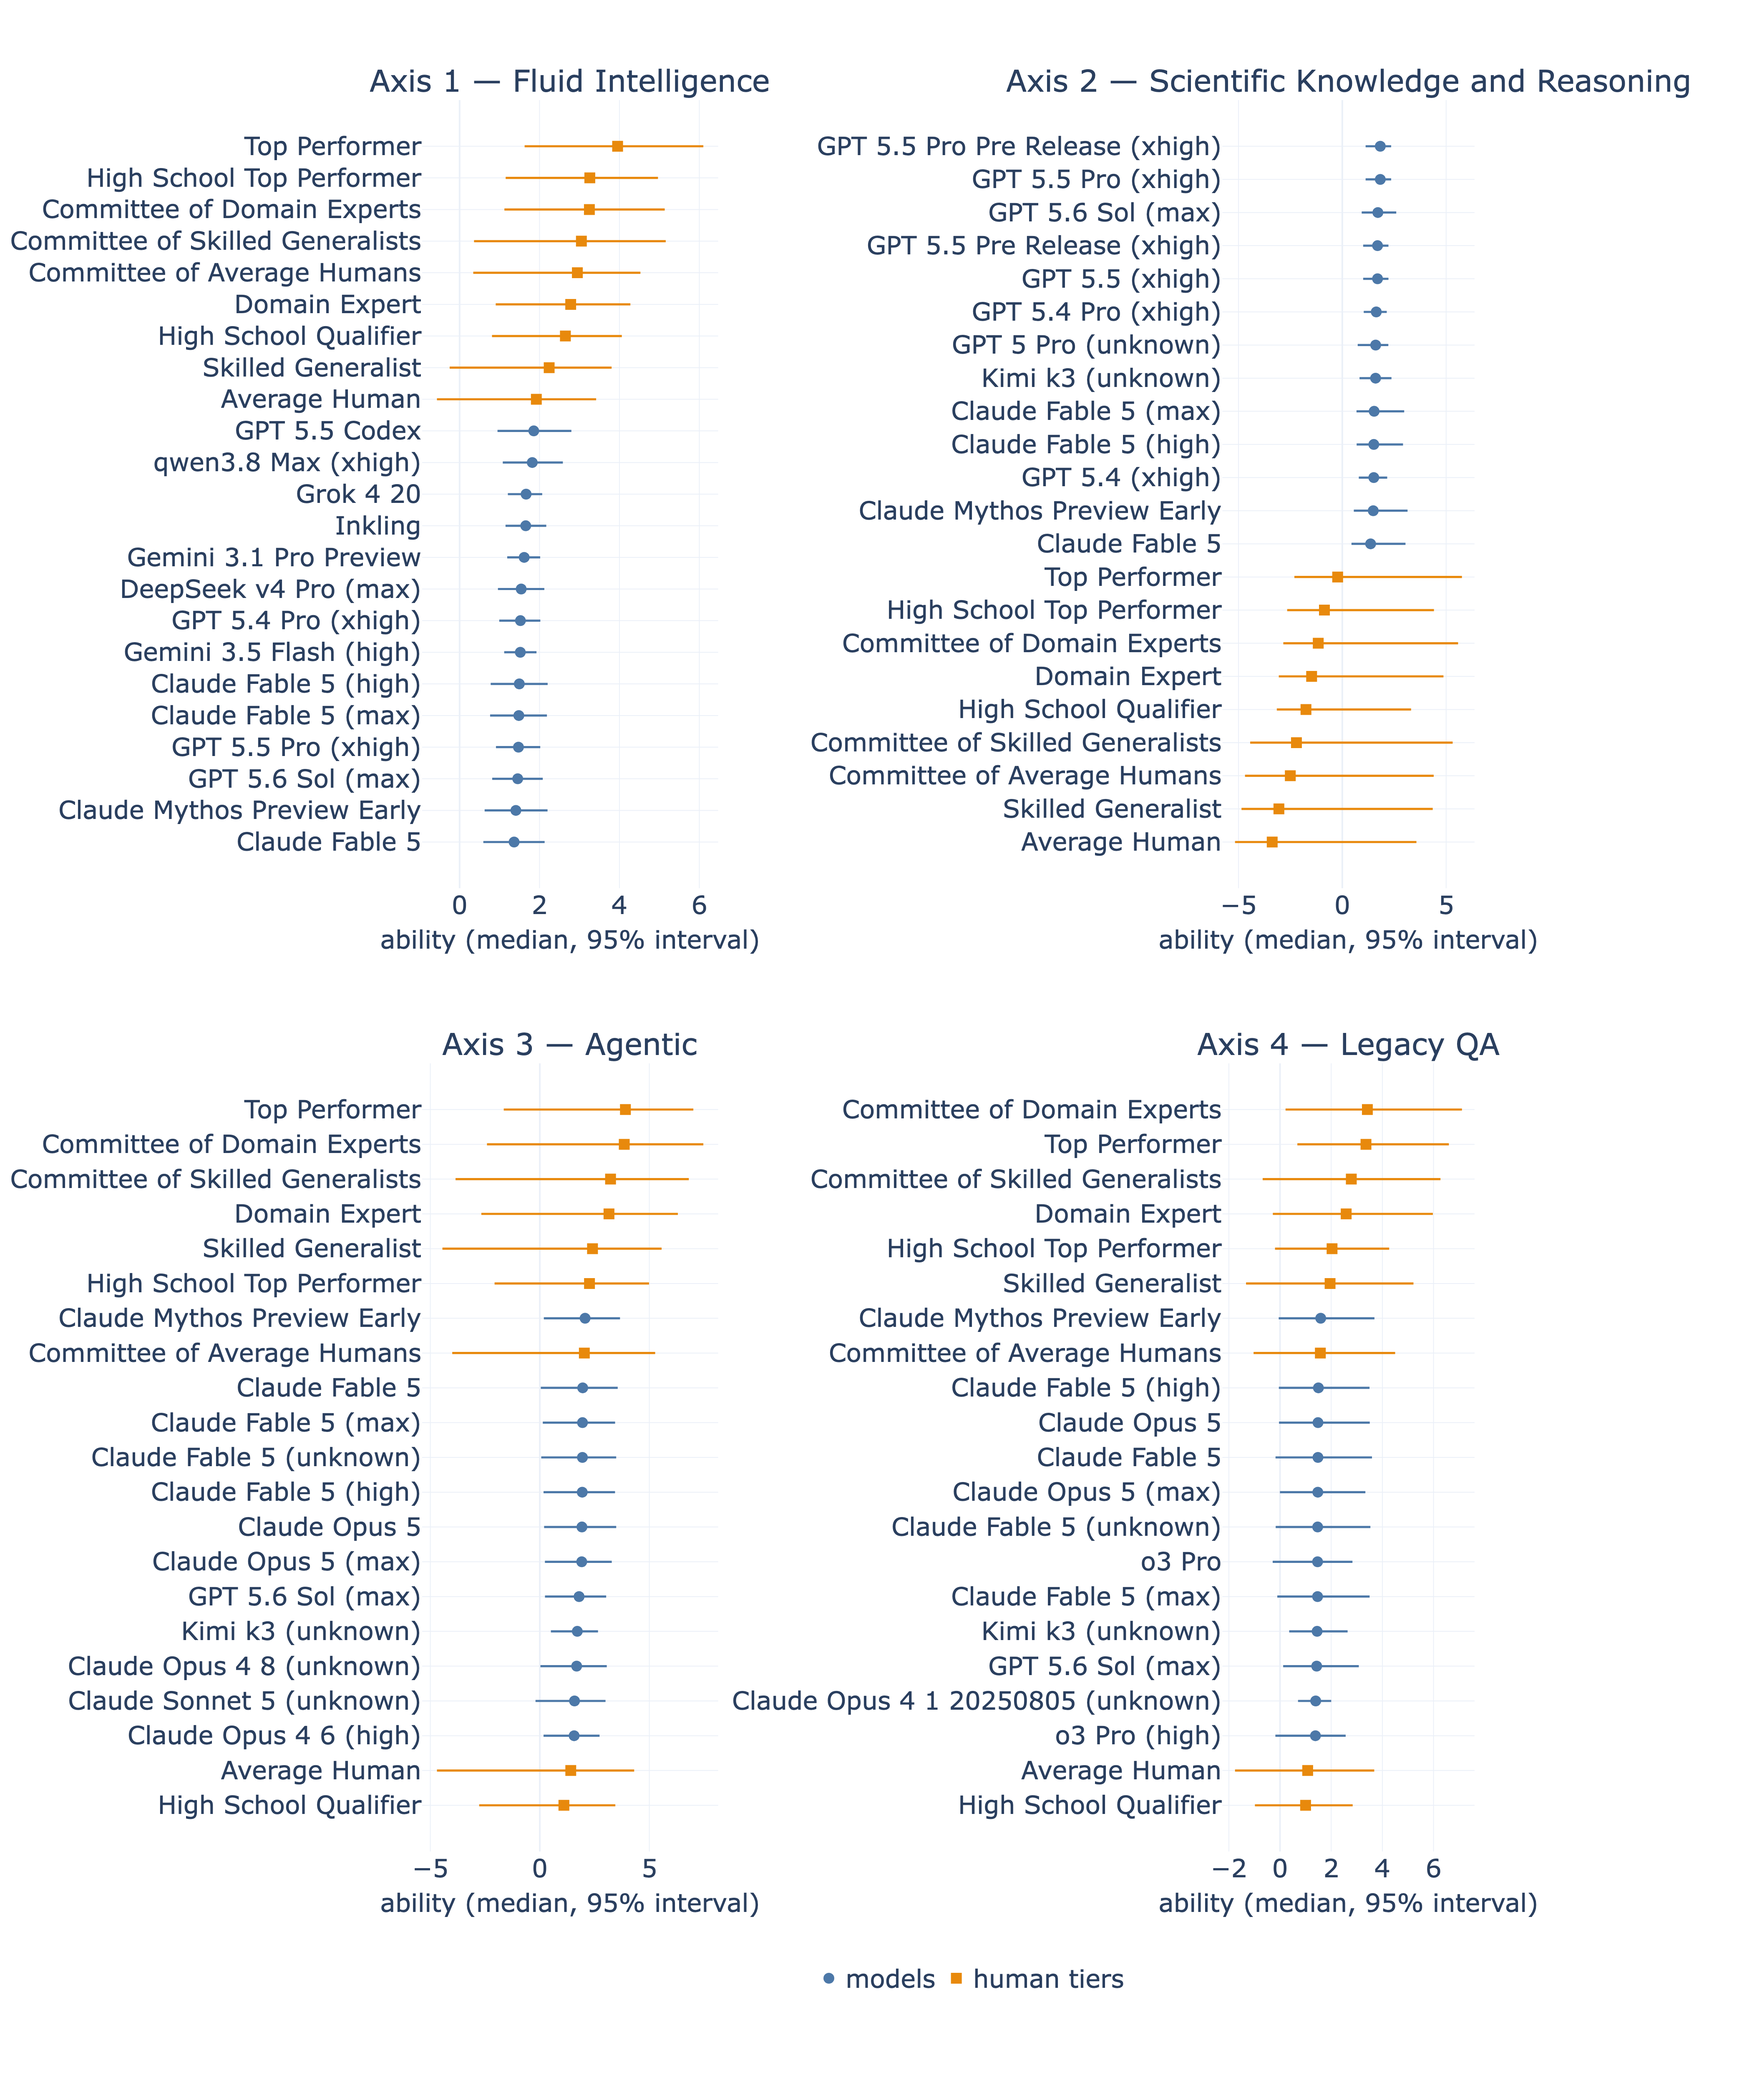
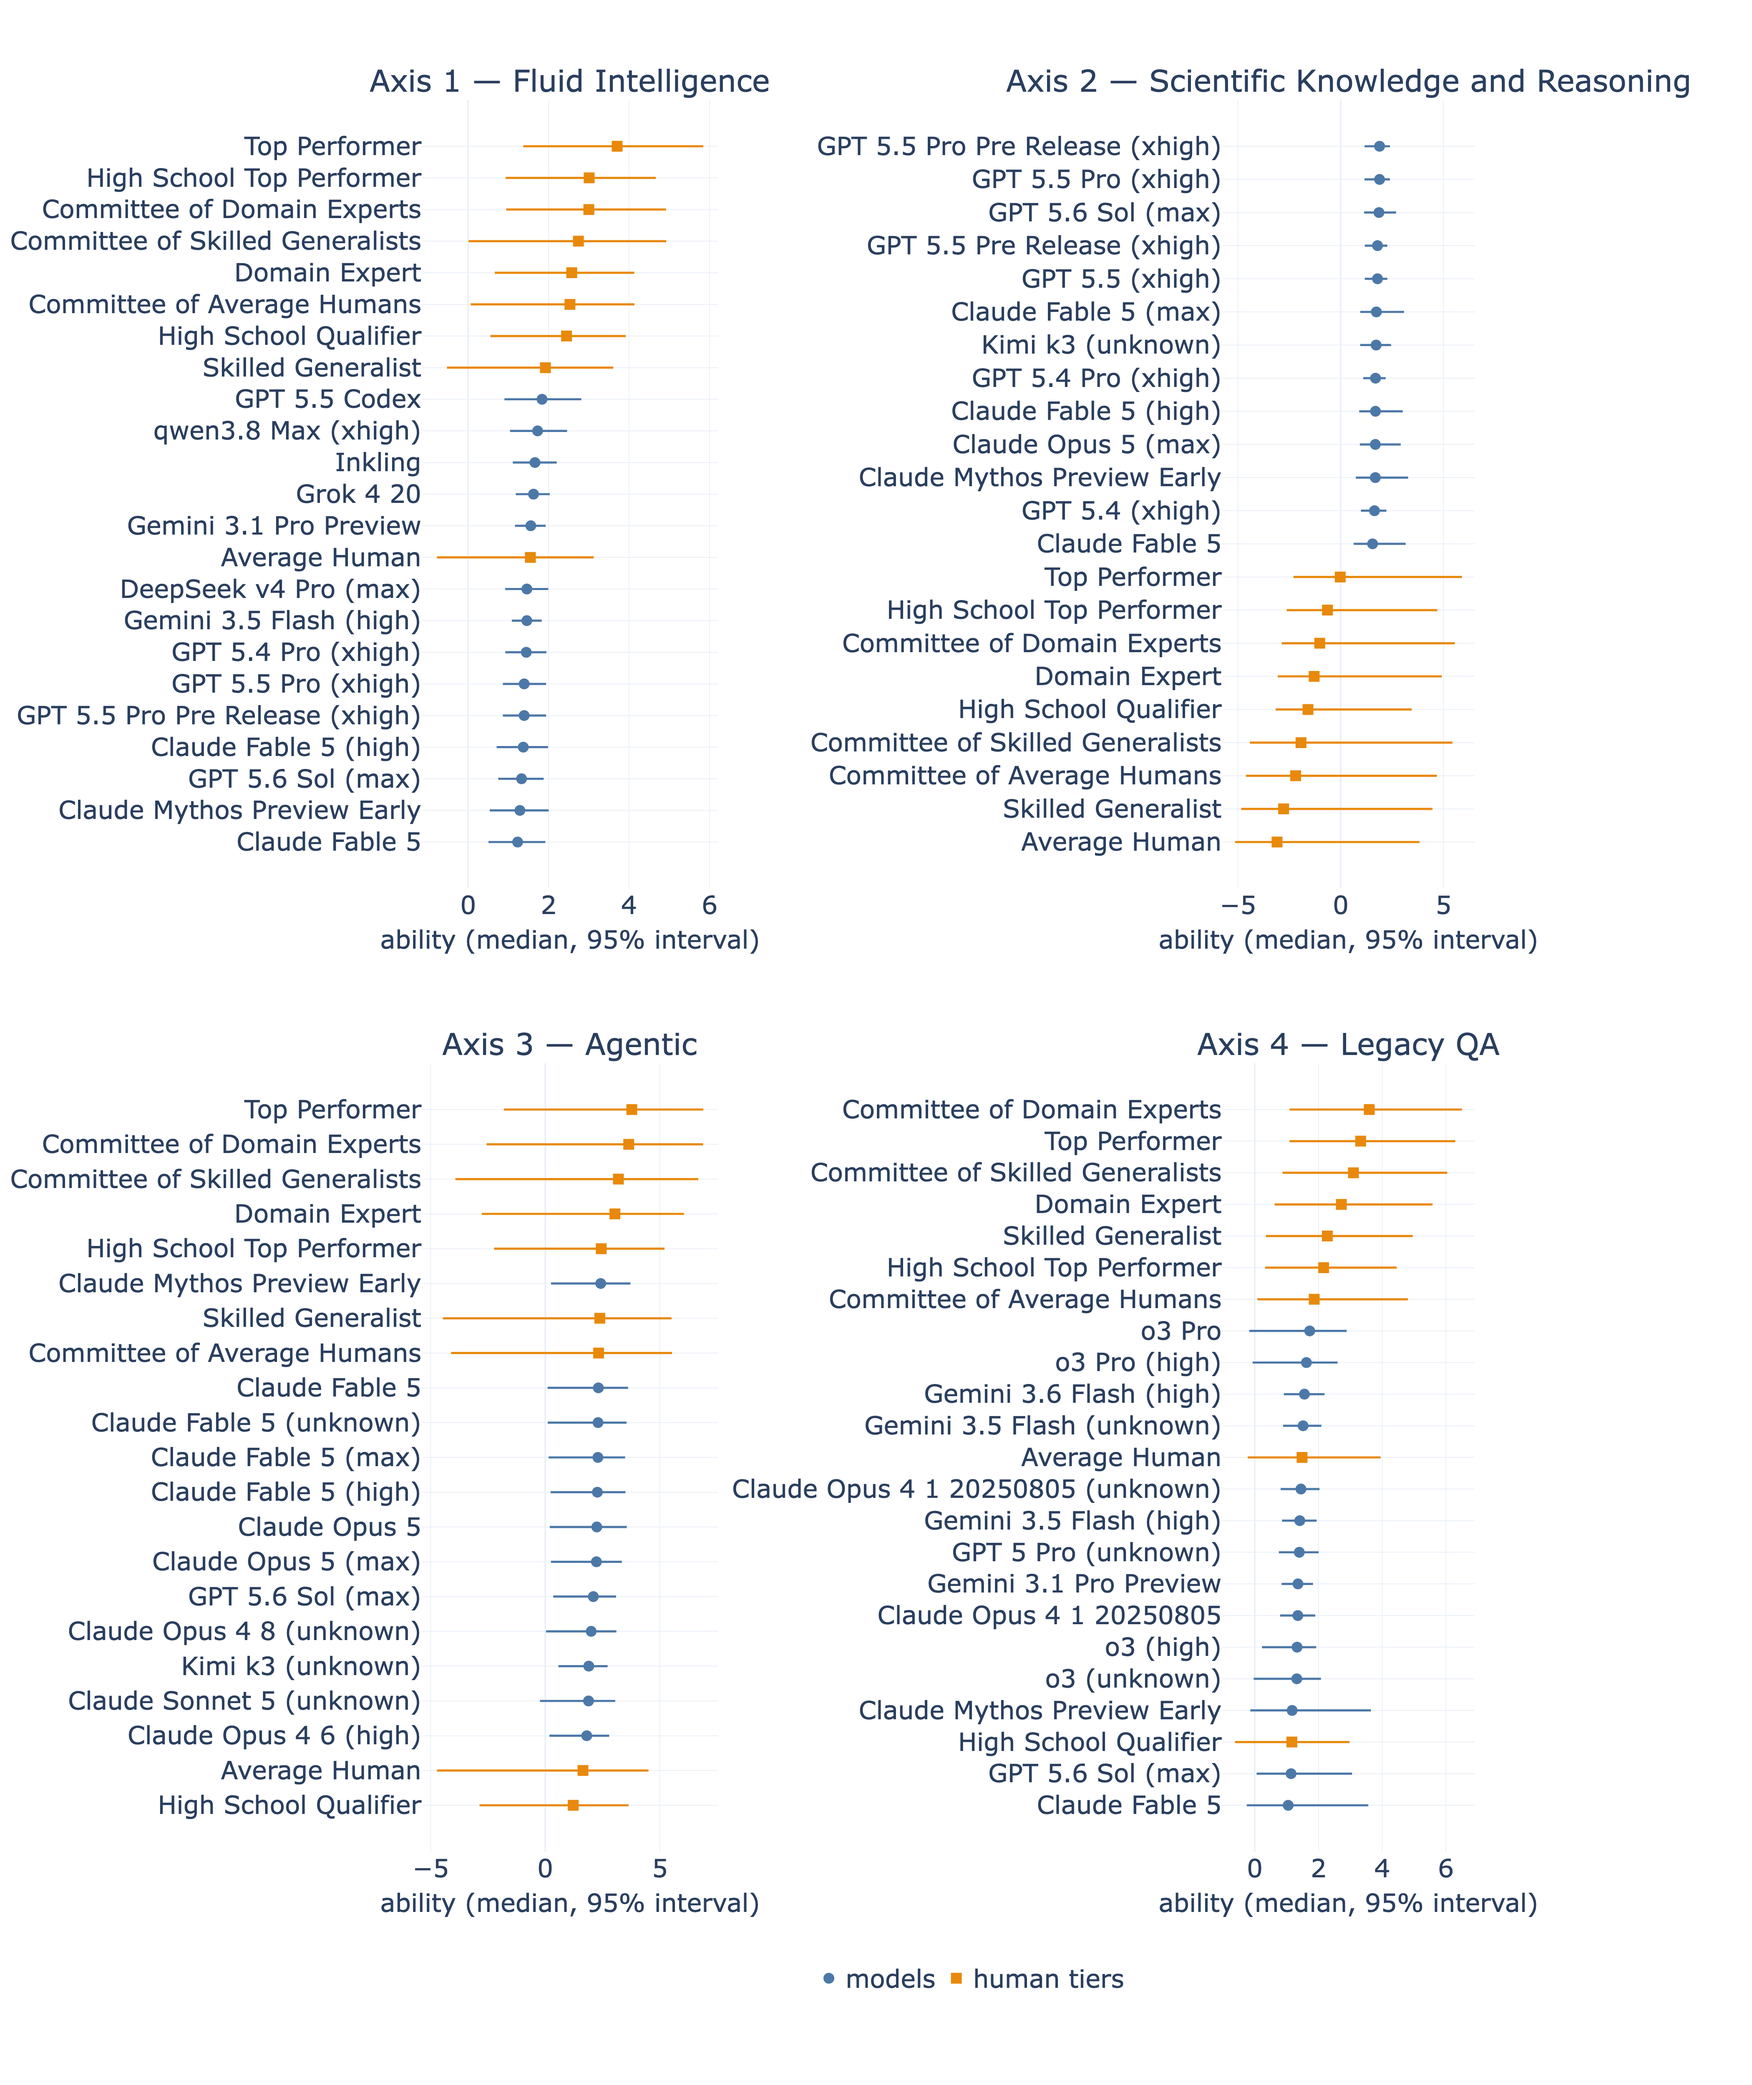
Forest figure on the majority chains by default (--chains all for the whole posterior); EN/FR re-rendered, billet caption says so, axis-1 sentence restored

diff --git a/blogpost/figures/make_forests_plotly.py b/blogpost/figures/make_forests_plotly.py
@@ -6,15 +6,17 @@ low-obs, or SOTA), the pinned frontier releases, and every human tier — drawn 
 the dashboard's own `viz.forest_grid_fig`, so markers, whiskers and the legend
 are the definitions the fit's CSVs use. The type constants match
 `make_timeline_plotly.py` / `make_loadings_plotly.py`. Reads the flagship
-trace over ALL chains by default — the post's headline figures are
-whole-posterior — with `--chains` for the mode-restricted appendix variants
-(the subset's axes are permuted back onto the fit-level display frame first,
-exactly as in `make_crossover_plotly`). Axis identity is checked against
-`make_all.EXPECTED_TOPS` before any label is applied.
+trace over the MAJORITY chains by default (`MAJORITY_CHAINS`, the mode the
+post's trend and crossover figures report), with `--chains` for another
+subset — `0,1,3,8` is the minority-mode appendix variant — or `--chains all`
+for the whole posterior. A chain subset's axes are permuted back onto the
+fit-level display frame first, exactly as in `make_crossover_plotly`. Axis
+identity is checked against `make_all.EXPECTED_TOPS` before any label is
+applied.
 
 Usage:
     python blogpost/figures/make_forests_plotly.py [--trace FILE] [--tag _draft]
-                                                   [--chains 0,1,3,8]
+                                                   [--chains 0,1,3,8 | all]
 """
 from __future__ import annotations
 
@@ -41,6 +43,10 @@ from multiaxis_eci.viz.core import save_html, save_print  # noqa: E402
 # "Top models, frontier releases and human tiers per axis".
 TITLE = None
 
+# The majority mode of the flagship fit (6 of 10 chains), the same subset the
+# trend and crossover figures draw; the minority appendix variant is 0,1,3,8.
+MAJORITY_CHAINS = [2, 4, 5, 6, 7, 9]
+
 # Post-scale sizing, shared with the timeline and loadings figures: the figure
 # is shared flat, so type must read without zooming. ~20 rows per panel at this
 # tick size need the taller canvas; save_print's scale=2 doubles the pixels.
@@ -57,7 +63,7 @@ WIDTH, HEIGHT = 2100, 2500
 
 
 def main(trace: Path = TRACE, tag: str = "_draft", out_dir: Path = HERE,
-         chains: list[int] | None = None) -> None:
+         chains: list[int] | None = MAJORITY_CHAINS) -> None:
     idata = FLAGSHIP.open_posterior(keep=["A", "theta", "tau_A"],
                                     thin=FLAGSHIP_THIN, chains=chains, path=trace)
     data, *_ = FLAGSHIP.load_data(idata)
@@ -113,10 +119,11 @@ if __name__ == "__main__":
     p = argparse.ArgumentParser()
     p.add_argument("--trace", type=Path, default=TRACE)
     p.add_argument("--tag", default="_draft")
-    p.add_argument("--chains", default=None,
-                   help="comma-separated chain subset (e.g. 0,1,3,8); "
-                        "default: all chains")
+    p.add_argument("--chains", default=",".join(map(str, MAJORITY_CHAINS)),
+                   help="comma-separated chain subset (e.g. 0,1,3,8), or "
+                        "'all' for the whole posterior; default: the "
+                        "majority chains")
     args = p.parse_args()
     main(args.trace, args.tag,
-         chains=None if args.chains is None
+         chains=None if args.chains == "all"
          else [int(c) for c in args.chains.split(",")])

diff --git a/blogpost/billet_fr.md b/blogpost/billet_fr.md
@@ -65,9 +65,9 @@ Nous nommons chaque axe d'après les benchmarks dont les vecteurs de pondératio
 Voici comment les meilleurs modèles se comparent aux humains sur chaque axe.
 
 ![Figure 3](figures/fr/forests_axes_plotly_draft.pdf)
-*Figure 3 - Meilleurs modèles et les neuf niveaux humains sur chaque axe (médiane, intervalle à 95 %). Les modèles affichés sont ceux retenus pour les projections : capacité bien estimée sur l'axe (écart-type a posteriori inférieur à 0,33) ou modèle de frontière.*
+*Figure 3 - Meilleurs modèles et les neuf niveaux humains sur chaque axe (médiane, intervalle à 95 %, chaînes majoritaires). Les modèles affichés sont ceux retenus pour les projections : capacité bien estimée sur l'axe (écart-type a posteriori inférieur à 0,33) ou modèle de frontière.*
 
-Les modèles de frontière dépassent tous les niveaux humains sur les Connaissances et le raisonnement scientifiques. Sur l'Intelligence fluide, c'est l'inverse. Chaque niveau humain se place au-dessus des meilleurs modèles, l'Humain Moyen de justesse. Sur les Questions-Réponses (saturées), les humains dominent également, mais il s'agit plutôt d'un artefact de données. Les huit benchmarks qui définissent cet axe le plus purement (part d'axe supérieure à un demi) n'ont plus été passés par des modèles depuis mi-2024, la plupart y plafonnant déjà autour de 0,9, et aucun modèle de frontière n'y a jamais été mesuré. L'avance humaine sur cet axe est donc une comparaison avec un bassin figé de modèles anciens, jamais confrontée à la frontière actuelle.
+Les modèles de frontière dépassent tous les niveaux humains sur les Connaissances et le raisonnement scientifiques. Sur l'Intelligence fluide, c'est l'inverse. Chaque niveau humain, à l'exception de l'Humain Moyen, se place au-dessus des meilleurs modèles. Sur les Questions-Réponses (saturées), les humains dominent également, mais il s'agit plutôt d'un artefact de données. Les huit benchmarks qui définissent cet axe le plus purement (part d'axe supérieure à un demi) n'ont plus été passés par des modèles depuis mi-2024, la plupart y plafonnant déjà autour de 0,9, et aucun modèle de frontière n'y a jamais été mesuré. L'avance humaine sur cet axe est donc une comparaison avec un bassin figé de modèles anciens, jamais confrontée à la frontière actuelle.
 
 ## Projections
 
